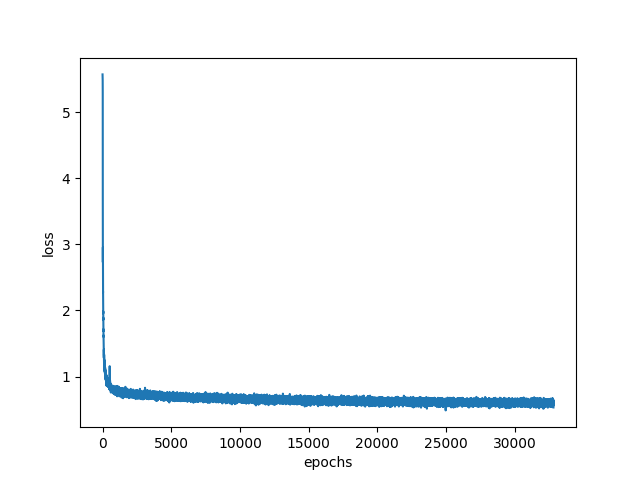
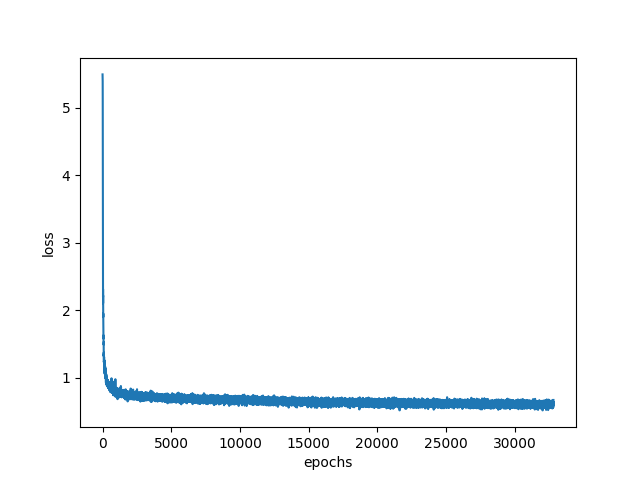
ar train

diff --git a/scripts/lab5.py b/scripts/lab5.py
@@ -12,19 +12,28 @@ from pkg.device import get_device
 from pkg.history_writer import HistoryWriter
 
 
+N_BINS = 16
+def quantize(x):
+    # x float [0,1]
+    return (x * (N_BINS - 1)).round().clamp(0, N_BINS-1).long()
+
+
 def to_uint8(x):
     # x: (B,1,28,28) float in [0,1]
     xq = (x * 255.0).round().clamp(0, 255).long()
     return xq
 
 
-def pixelcnn_loss(model, x):
-    # x = to_uint8(x_float)
-    logits = model(x)  # (B,256,H,W)
-    # target: (B,H,W)
-    target = x[:, 0]
+def pixelcnn_loss(model, x_float):
+    # x_float: (B,1,28,28) float in [0,1]
+    x_q = quantize(x_float)      # <-- ВОТ ЗДЕСЬ
+
+    logits = model(x_q)          # (B, N_BINS, H, W)
+    target = x_q[:, 0]           # (B, H, W)
+
     loss = F.cross_entropy(logits, target, reduction="mean")
     return loss
+
 
 
 def train_pixelcnn(
@@ -35,42 +44,53 @@ def train_pixelcnn(
     device = get_device()
     history = HistoryWriter()
 
-    t = Compose([
-        ToTensor(),
-        Lambda(lambda x: to_uint8(x)),
-    ])
-    train_loader, _ = MNIST(transform=t)
+    # t = Compose([
+        # ToTensor(),
+        # Lambda(lambda x: to_uint8(x)),
+    # ])
+    train_loader, _ = MNIST()
 
     model = PixelCNN(
         hidden=128,
         n_layers=10,
-        n_embeddings=256,
+        n_embeddings=N_BINS,
     ).to(device)
 
-    opt = torch.optim.AdamW(model.parameters(), lr=3e-4, weight_decay=1e-4)
+
+    opt = torch.optim.AdamW(model.parameters(), lr=5e-4, weight_decay=1e-4)
+    sched = torch.optim.lr_scheduler.StepLR(opt, step_size=10, gamma=0.5)
 
     for ep in range(1, epochs + 1):
         model.train()
         total = 0.0
+        seen = 0
+     
 
         pbar = tqdm(train_loader, desc=f"epoch {ep}")
         for x, _ in pbar:
             x = x.to(device)
             loss = pixelcnn_loss(model, x)
 
-            history.save_record("loss", loss.item())
-
             opt.zero_grad()
             loss.backward()
             opt.step()
 
-            total += loss.item() * x.size(0)
-            pbar.set_description(f"Epoch {ep}: loss={total / len(train_loader.dataset):.4f}")
+            bs = x.size(0)
+            total += loss.item() * bs
+            seen += bs
+
+            pbar.set_postfix(avg_loss=total / seen, batch_loss=loss.item())
+        sched.step()
+
+        avg_loss = total / seen
+        print(f"Epoch {ep}: avg_loss={avg_loss:.4f}")
+        history.save_record("loss", avg_loss)
 
         if ep % 5 == 0:
-            xs = model.sample(batch_size=16, device=device)  # long 0..255
-            xs = (xs.float() / 255.0).clamp(0, 1)
+            xs = model.sample(batch_size=16, device=device)   # long 0..N_BINS-1
+            xs = (xs.float() / (N_BINS - 1)).clamp(0, 1)
             save_image(xs, os.path.join(out_dir, f"samples_ep{ep:03d}.png"), nrow=4)
+
 
 
     history.plot_history("epochs", "./data/plots/autoencoder.png")
@@ -78,4 +98,4 @@ def train_pixelcnn(
 
 
 if __name__ == "__main__":
-    train_pixelcnn(35)
+    train_pixelcnn(40)
